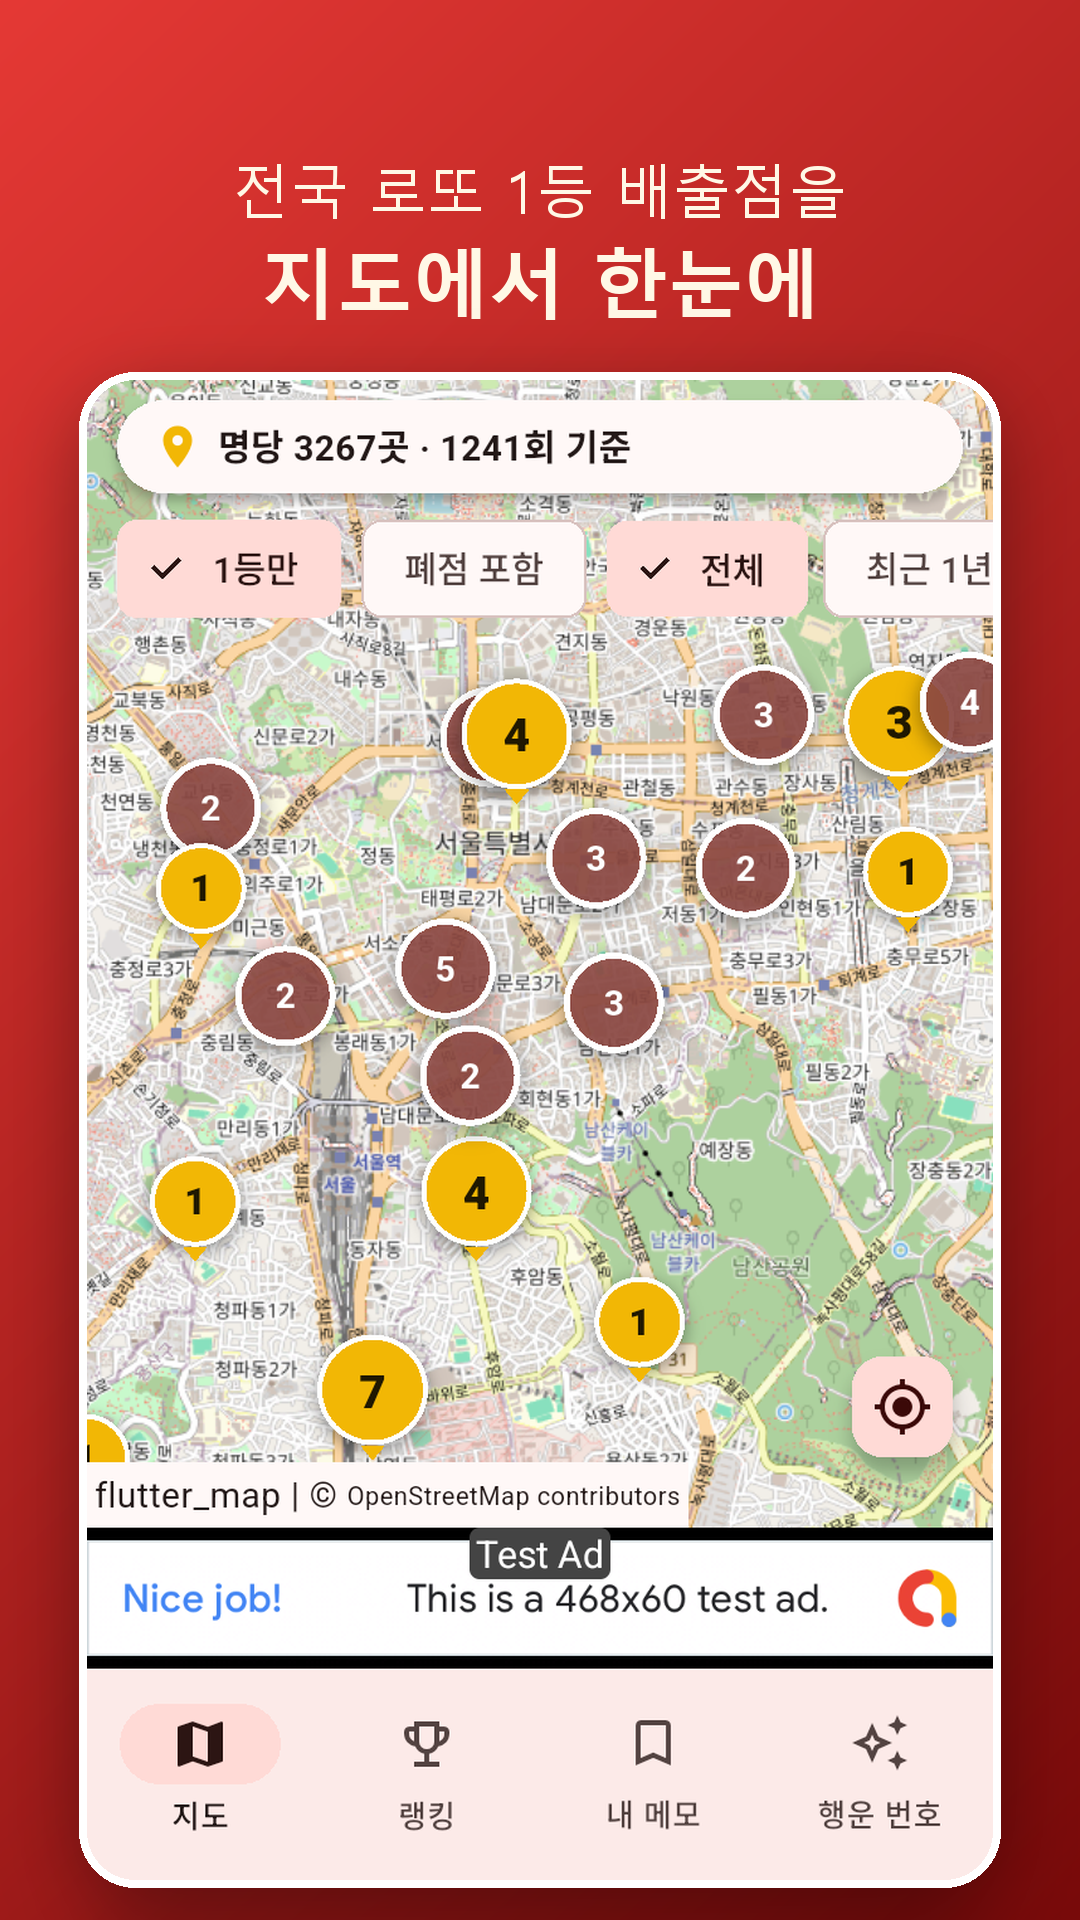
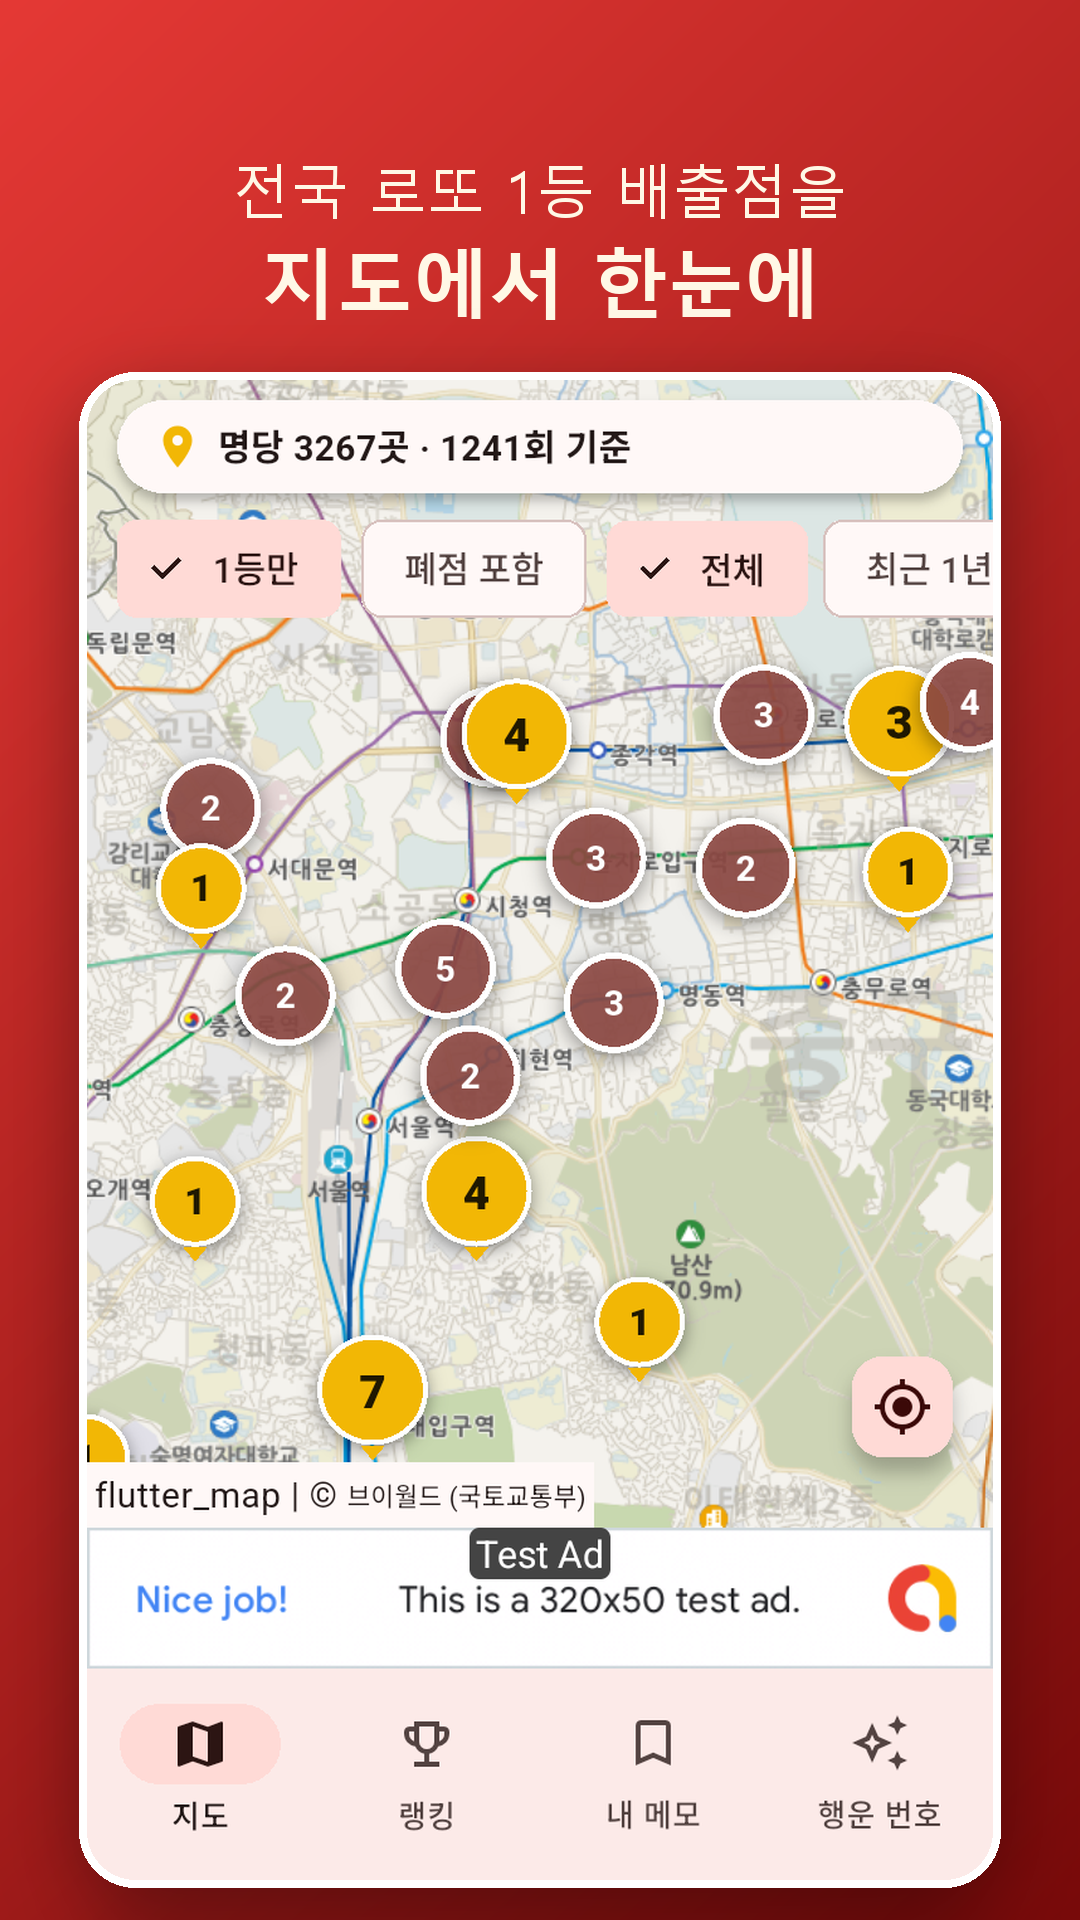
배경지도를 브이월드(VWorld) WMTS 로 전환, 표기·개인정보처리방침 갱신, 스토어 스크린샷 재촬영

Changed region(s): [[0.0611, 0.1875, 0.9167, 0.875]]

diff --git a/docs/privacy-policy.html b/docs/privacy-policy.html
@@ -57,7 +57,7 @@
     <td>지도 표시 시 자동</td>
     <td>IP 주소, 요청한 지도 영역(타일 좌표)</td>
     <td>지도 타일 서버에 이미지 요청</td>
-    <td>지도 제공자 서버 (OpenStreetMap 등, 아래 4항)</td>
+    <td>지도 제공자 서버 (브이월드, 아래 4항)</td>
   </tr>
   <tr>
     <td>당첨 데이터 갱신 시 자동</td>
@@ -102,10 +102,10 @@
         <a href="https://policies.google.com/technologies/partner-sites" target="_blank" rel="noopener">Google 파트너 사이트·앱에서의 데이터 사용</a></td>
   </tr>
   <tr>
-    <td>OpenStreetMap 타일 서버</td>
-    <td>OpenStreetMap Foundation (영국)</td>
-    <td>지도 이미지 제공</td>
-    <td><a href="https://osmfoundation.org/wiki/Privacy_Policy" target="_blank" rel="noopener">osmfoundation.org/wiki/Privacy_Policy</a></td>
+    <td>브이월드(VWorld) 공간정보 오픈플랫폼</td>
+    <td>국토교통부 / 공간정보산업진흥원 (대한민국)</td>
+    <td>배경지도 이미지 제공</td>
+    <td><a href="https://www.vworld.kr/v4po_prvcpl_s001.do" target="_blank" rel="noopener">vworld.kr 개인정보처리방침</a></td>
   </tr>
   <tr>
     <td>동행복권</td>
@@ -188,7 +188,7 @@ handles information when you use the app.</p>
     <td>Automatically when showing the map</td>
     <td>IP address, requested map area (tile coordinates)</td>
     <td>Map tile requests</td>
-    <td>Map provider servers (OpenStreetMap; see section 4)</td>
+    <td>Map provider servers (VWorld; see section 4)</td>
   </tr>
   <tr>
     <td>Automatically when refreshing data</td>
@@ -229,8 +229,8 @@ handles information when you use the app.</p>
     <td><a href="https://policies.google.com/privacy" target="_blank" rel="noopener">policies.google.com/privacy</a></td>
   </tr>
   <tr>
-    <td>OpenStreetMap tile servers</td><td>OpenStreetMap Foundation (UK)</td><td>Map imagery</td>
-    <td><a href="https://osmfoundation.org/wiki/Privacy_Policy" target="_blank" rel="noopener">osmfoundation.org/wiki/Privacy_Policy</a></td>
+    <td>VWorld (Korea spatial information open platform)</td><td>Ministry of Land, Infrastructure and Transport / Spatial Information Industry Promotion Agency (Korea)</td><td>Base map imagery</td>
+    <td><a href="https://www.vworld.kr/v4po_prvcpl_s001.do" target="_blank" rel="noopener">vworld.kr privacy policy</a></td>
   </tr>
   <tr>
     <td>Dong Hang Lottery</td><td>Dong Hang Lottery Co., Ltd. (Korea)</td><td>Latest winning-shop data</td>

diff --git a/lib/screens/settings_screen.dart b/lib/screens/settings_screen.dart
@@ -46,11 +46,13 @@ class SettingsScreen extends StatelessWidget {
               subtitle: Text('동행복권(dhlottery.co.kr) 당첨 판매점 조회. 262회(2007년) 이후 1·2등 배출점.\n'
                   '상호·주소·좌표는 동행복권 등록 정보 기준이며 실제와 다를 수 있습니다.'),
             ),
-            if (MapConfig.isOsm)
-              const ListTile(
-                leading: Icon(Icons.map_outlined),
-                title: Text('지도'),
-                subtitle: Text('© OpenStreetMap contributors'),
+            if (MapConfig.attribution.isNotEmpty)
+              ListTile(
+                leading: const Icon(Icons.map_outlined),
+                title: const Text('지도'),
+                subtitle: Text(MapConfig.isVworld
+                    ? '배경지도: 브이월드(VWorld) 공간정보 오픈플랫폼, 국토교통부'
+                    : '© ${MapConfig.attribution}'),
               ),
             const Divider(),
             ListTile(

diff --git a/lib/services/map_config.dart b/lib/services/map_config.dart
@@ -20,7 +20,14 @@ class MapConfig {
   /// 타일 요청에 실리는 User-Agent (OSM 정책상 앱 식별 필수)
   static const userAgentPackage = 'com.jun5731.lotto_map';
 
-  static String get attribution => isOsm ? 'OpenStreetMap contributors' : '';
+  static bool get isVworld => tileUrl.contains('vworld.kr');
+
+  /// 지도 하단 표기. 브이월드는 약관상 사용 표기가 의무.
+  static String get attribution => isOsm
+      ? 'OpenStreetMap contributors'
+      : isVworld
+          ? '브이월드 (국토교통부)'
+          : '';
 
   /// 첫 화면: 서울시청
   static final initialCenter = LatLng(37.5665, 126.9780);

diff --git a/README.md b/README.md
@@ -67,14 +67,18 @@ Java 의 AF_UNIX 소켓이 `%TEMP%` 아래에서 실패해 Gradle 이 "Unable to
 
 ## 지도 타일
 
-개발·검증은 OpenStreetMap 공개 타일을 쓴다. OSM 타일 서버는 대량 배포 앱에 사용 허가가 필요하므로
-(https://operations.osmfoundation.org/policies/tiles/) 출시 전 키 발급형 제공자로 바꾸는 것을 권장:
+배경지도는 **브이월드(VWorld, 국토교통부) WMTS** 를 쓴다. 인증키는 코드에 넣지 않고 빌드 옵션(`--dart-define=TILE_URL=...`)으로
+주입하며, 키가 들어 있는 `build_release.bat` 은 git 에서 제외되어 있다.
 
-```bash
-flutter build appbundle --release --dart-define=TILE_URL=https://api.vworld.kr/req/wmts/1.0.0/<VWORLD_KEY>/Base/{z}/{y}/{x}.png
+```bat
+build_release.bat appbundle     REM → build/app/outputs/bundle/release/app-release.aab
+build_release.bat apk           REM → 에뮬레이터 확인용
 ```
 
-(VWorld 는 국토부 무료 키. 바꾸면 `MapConfig.attribution` 이 비고 설정 화면의 OSM 표기도 사라진다.)
+- 키 관리: https://www.vworld.kr/mypo/mypo_apiKey_s001.do (브이월드 로그인 필요). 키를 바꾸면 `build_release.bat` 의 `TILE_URL` 만 수정.
+- 키 없이 `flutter build` 만 하면 OpenStreetMap 공개 타일로 폴백된다 (개발용. 대량 배포에는 OSM 정책상 부적합).
+- 브이월드 약관: 결과물에 브이월드 사용 표기 필요(지도 하단·설정 화면에 표기함). 상업적 이용은 별도 허락 대상이므로
+  트래픽이 커지면 고객센터(1661-0115)에 문의. 현재 키는 개발키이며 운영키는 별도 심사 신청.
 
 ## 출시 체크리스트
 
@@ -95,8 +99,8 @@ flutter build appbundle --release --dart-define=TILE_URL=https://api.vworld.kr/r
 - [x] 릴리즈 서명 키: `android/upload-keystore.jks` + `android/key.properties` (daily_fortune 과 같은 업로드 키 재사용, git 제외 — **반드시 백업**)
 - [x] 앱 아이콘: `tool/make_icon.py` → `dart run flutter_launcher_icons`
 - [x] 위치 권한: 선택 사용. Play 데이터 보안 양식 작성 시 `store/listing.md` 참고
-- [ ] (권장) 지도 타일을 키 발급형으로 교체 (위 "지도 타일")
-- [x] `flutter build appbundle --release` → `build/app/outputs/bundle/release/app-release.aab` (업로드는 Play Console 에서)
+- [x] 지도 타일: 브이월드 키 적용 (`build_release.bat`)
+- [x] `build_release.bat appbundle` → `build/app/outputs/bundle/release/app-release.aab` (업로드는 Play Console 에서)
 - [x] 스토어 등록 정보: `store/listing.md`, `store/icon-512.png`, `store/feature-graphic.png`, `store/screenshots/01~06.png`
 
 ### 4. iOS 출시 (Mac 필요)

diff --git a/store/listing.md b/store/listing.md
@@ -62,6 +62,7 @@ Play Console → 앱 → **스토어 등록정보(기본)** 에 아래 내용을
 ※ 판매점 정보는 동행복권 당첨 판매점 조회 데이터를 바탕으로 하며, 상호·주소는 실제와 다를 수 있습니다.
 ※ 이 앱은 동행복권과 무관한 개인 개발 앱이며, 당첨을 보장하지 않습니다.
 ※ 복권은 만 19세 이상만 구매할 수 있습니다. 과도한 구매는 삼가세요.
+※ 배경지도: 브이월드(국토교통부) 공간정보 오픈플랫폼.
 ※ 앱은 광고를 포함하고 있습니다.
 ```
 
